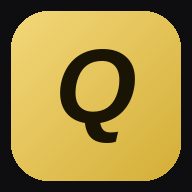
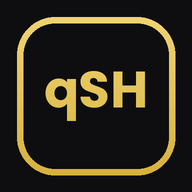
Add files via upload

diff --git a/index.html b/index.html
@@ -4,7 +4,7 @@
 <meta charset="utf-8">
 <meta name="viewport" content="width=device-width, initial-scale=1, viewport-fit=cover">
 <meta name="theme-color" content="#0e0e10">
-<title>Qatti Shop</title>
+<title>qSHOP</title>
 <link rel="manifest" href="manifest.webmanifest">
 <link rel="icon" href="icon-192.png">
 <link rel="apple-touch-icon" href="icon-192.png">
@@ -20,8 +20,8 @@ body{min-height:100vh;display:flex;justify-content:center}
 #app{width:100%;max-width:480px;min-height:100vh;padding-bottom:84px;position:relative}
 header{position:sticky;top:0;z-index:20;background:rgba(14,14,16,.92);backdrop-filter:blur(10px);
   padding:calc(env(safe-area-inset-top) + 12px) 16px 12px;border-bottom:1px solid var(--line);display:flex;align-items:center;gap:10px}
-.logo{width:34px;height:34px;border-radius:10px;background:linear-gradient(135deg,var(--gold2),var(--gold));color:#1a1405;
-  display:grid;place-items:center;font-weight:800;font-size:18px}
+.logo{width:36px;height:36px;border-radius:11px;background:var(--bg);border:2px solid var(--gold);color:var(--gold2);
+  display:grid;place-items:center;font-weight:800;font-size:12.5px;letter-spacing:-.5px}
 header h1{font-size:18px;margin:0;letter-spacing:.3px}
 header h1 span{color:var(--gold)}
 header small{display:block;color:var(--muted);font-size:11px;margin-top:1px}
@@ -92,8 +92,8 @@ label{font-size:12px;color:var(--muted);display:block;margin:0 0 4px 2px}
 <body>
 <div id="app">
   <header>
-    <div class="logo">Q</div>
-    <div><h1>Qatti <span>Shop</span></h1><small>Xitoy tovarlari, guruh bilan arzon</small></div>
+    <div class="logo">qSH</div>
+    <div><h1>q<span>SHOP</span></h1><small>Xitoy tovarlari, guruh bilan arzon</small></div>
   </header>
   <main id="main"></main>
   <nav id="nav"></nav>
@@ -220,8 +220,8 @@ label{font-size:12px;color:var(--muted);display:block;margin:0 0 4px 2px}
   function share(id){
     var p = byId(id); if (!p) return;
     var url = location.href.split('?')[0].split('#')[0] + '?p=' + p.id;
-    var text = 'Qatti Shop: ' + p.name + ' — guruh narxi ' + money(p.price) + '. Birga olamiz!';
-    if (navigator.share) { navigator.share({ title: 'Qatti Shop', text: text, url: url }).catch(function(){}); }
+    var text = 'qSHOP: ' + p.name + ' — guruh narxi ' + money(p.price) + '. Birga olamiz!';
+    if (navigator.share) { navigator.share({ title: 'qSHOP', text: text, url: url }).catch(function(){}); }
     else { window.open('https://t.me/share/url?url=' + encodeURIComponent(url) + '&text=' + encodeURIComponent(text), '_blank'); }
   }
 
